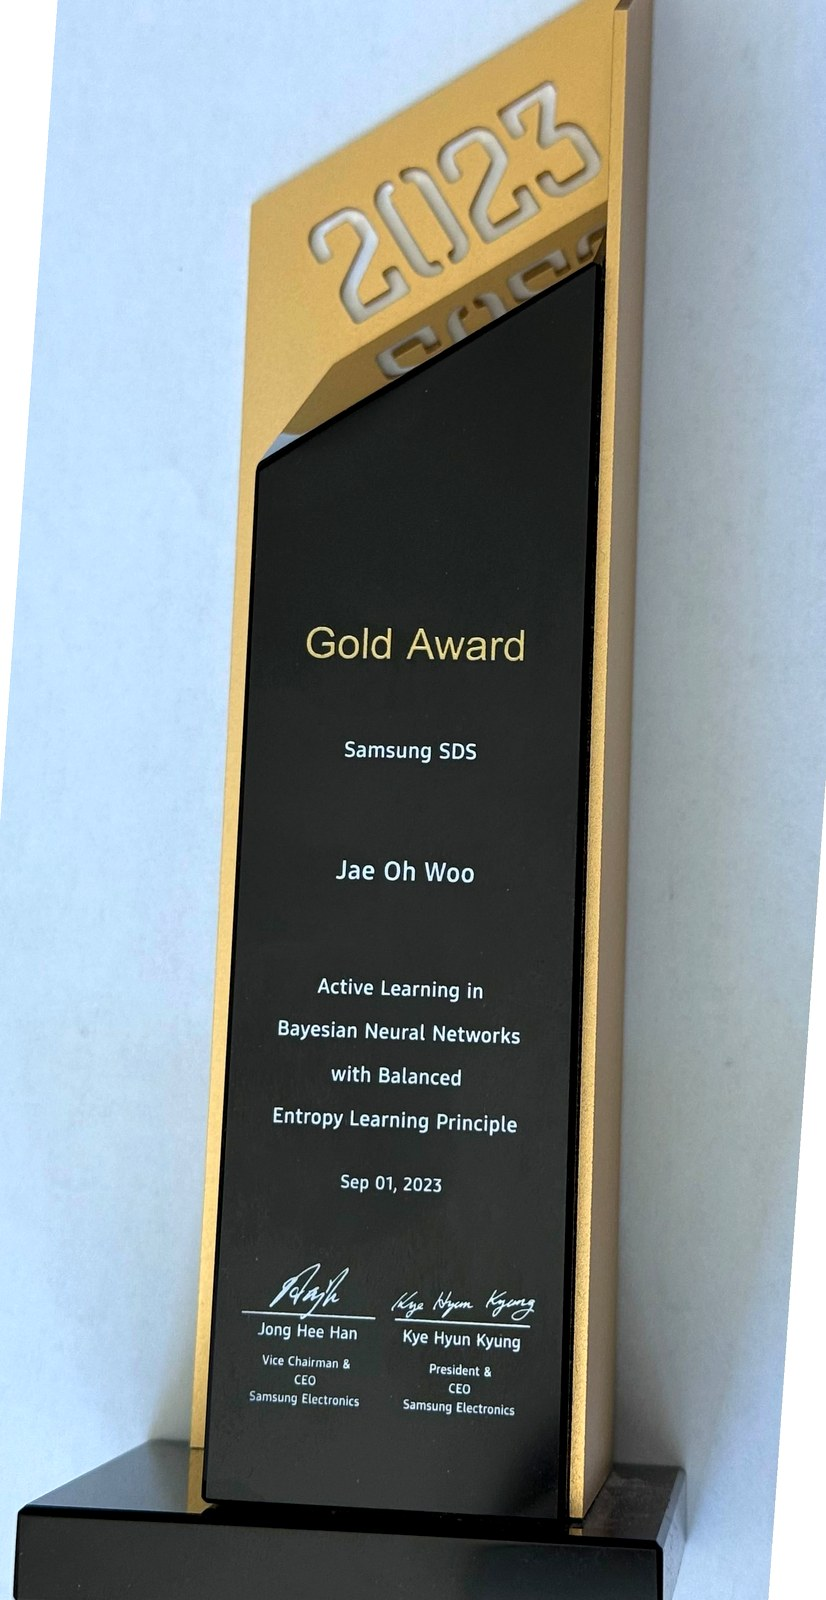
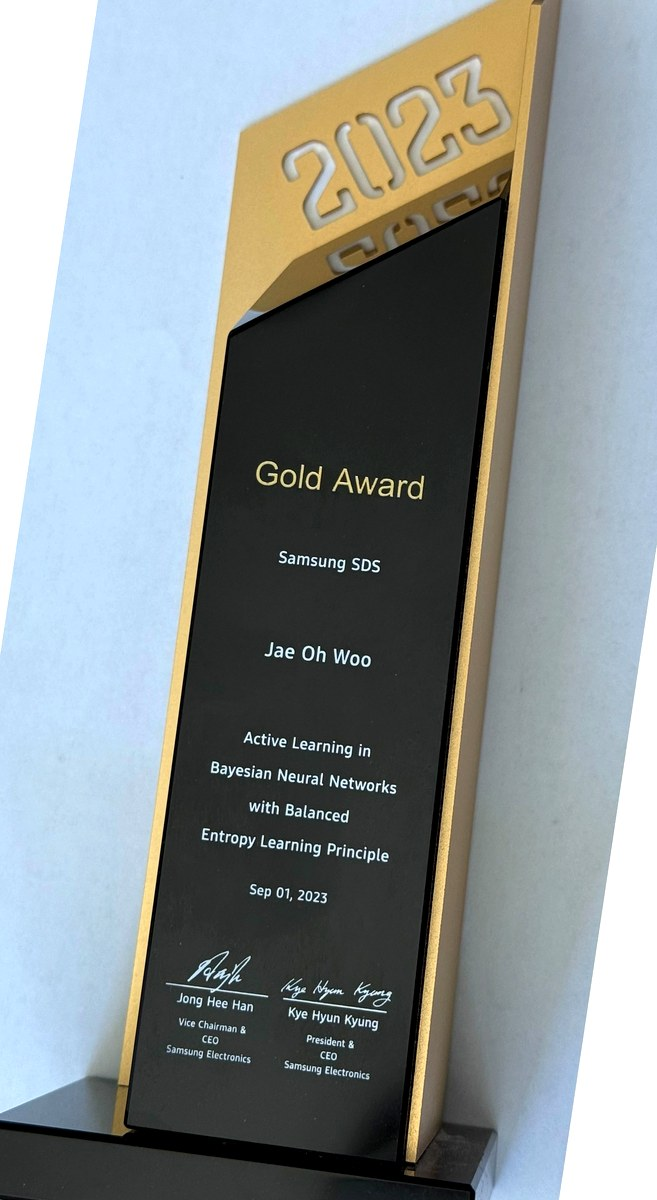
Stack ICLR 2023 photos vertically and tilt trophy further left

diff --git a/css/style.css b/css/style.css
@@ -608,6 +608,25 @@ strong { font-weight: 600; }
   transition: transform 0.3s;
 }
 .work-photo--pair img:hover { transform: scale(1.03); }
+.work-photo--stack {
+  display: flex;
+  flex-direction: column;
+  gap: 0.6rem;
+  align-items: center;
+  overflow: visible;
+}
+.work-photo--stack img {
+  width: 100%;
+  height: auto;
+  display: block;
+  border-radius: 10px;
+  box-shadow: 0 2px 10px rgba(0,0,0,0.08);
+  transition: transform 0.3s;
+}
+.work-photo--stack img:nth-child(2) {
+  width: 65%;
+}
+.work-photo--stack img:hover { transform: scale(1.03); }
 .work-photo {
   overflow: hidden;
   border-radius: 10px;

diff --git a/index.html b/index.html
@@ -315,7 +315,7 @@
               </div>
             </div>
           </div>
-          <div class="work-photo work-photo--pair">
+          <div class="work-photo work-photo--stack">
             <img src="img/photo1.jpg" alt="Presenting Balanced Entropy at ICLR 2023" loading="lazy">
             <img src="img/samsung_gold_award_2023.jpg" alt="Samsung SDS Gold Award trophy for Balanced Entropy paper" loading="lazy">
           </div>
